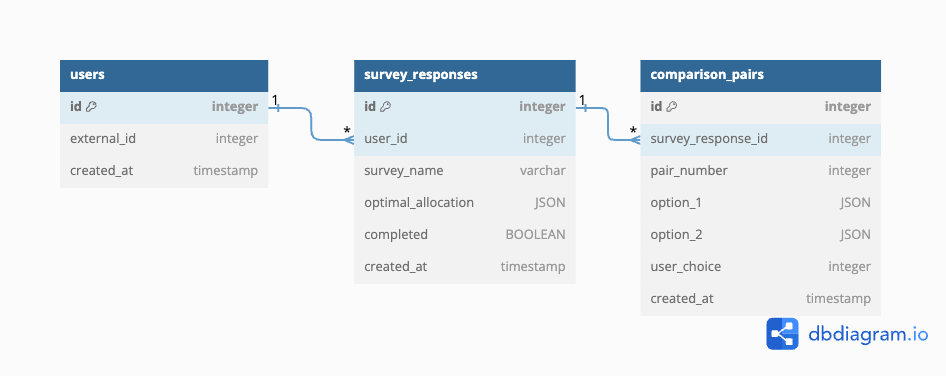
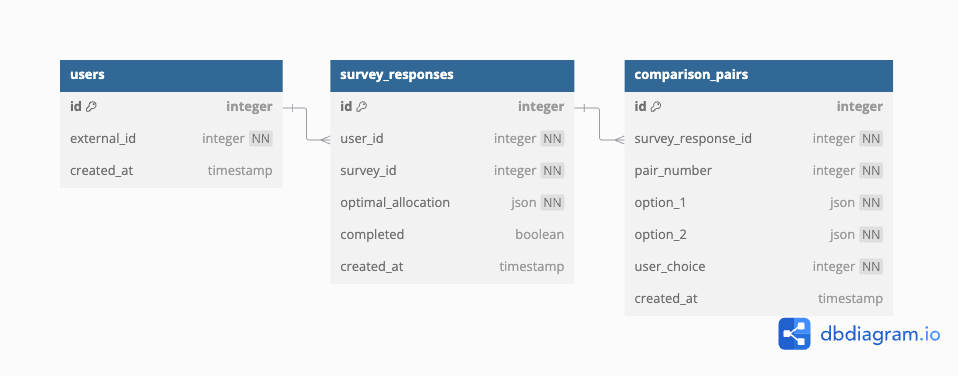
update survey_responses schema, replace survey_name with survey_id

diff --git a/tests/database/test_database_integration.py b/tests/database/test_database_integration.py
@@ -66,11 +66,11 @@ def test_create_survey_response(cleanup_db):
     """
     external_id = generate_unique_id()  # Generate a unique external ID for a new user
     user_id = create_user(external_id)  # Insert the user into the database
-    survey_name = "Test Survey"  # Sample survey name
+    survey_id = 1  # Sample survey ID
     optimal_allocation = [10, 20, 30]  # Sample optimal allocation
 
     # Insert a survey response for the user
-    survey_response_id = create_survey_response(user_id, survey_name, optimal_allocation)
+    survey_response_id = create_survey_response(user_id, survey_id, optimal_allocation)
     assert survey_response_id is not None  # Ensure that the survey response was inserted
 
     # Verify the inserted survey response by querying the database
@@ -78,7 +78,7 @@ def test_create_survey_response(cleanup_db):
     result = execute_query(query, (survey_response_id,))
     assert len(result) == 1  # Ensure one result is returned
     assert result[0]['user_id'] == user_id  # Check that the user ID matches
-    assert result[0]['survey_name'] == survey_name  # Check that the survey name matches
+    assert result[0]['survey_id'] == survey_id  # Check that the survey id matches
 
 def test_create_comparison_pair(cleanup_db):
     """
@@ -87,7 +87,7 @@ def test_create_comparison_pair(cleanup_db):
     """
     external_id = generate_unique_id()  # Generate a unique external ID for a new user
     user_id = create_user(external_id)  # Insert the user into the database
-    survey_response_id = create_survey_response(user_id, "Test Survey 2", [5, 15, 25])  # Create a new survey response
+    survey_response_id = create_survey_response(user_id, 2, [5, 15, 25])  # Create a new survey response
 
     pair_number = 1  # Define a pair number for comparison
     option_1 = [10, 20]  # First set of options
@@ -113,7 +113,7 @@ def test_mark_survey_as_completed(cleanup_db):
     """
     external_id = generate_unique_id()  # Generate a unique external ID for a new user
     user_id = create_user(external_id)  # Insert the user into the database
-    survey_response_id = create_survey_response(user_id, "Test Survey 3", [15, 25, 35])  # Create a new survey response
+    survey_response_id = create_survey_response(user_id, 3, [15, 25, 35])  # Create a new survey response
 
     # Mark the survey as completed
     result = mark_survey_as_completed(survey_response_id)

diff --git a/database/queries.py b/database/queries.py
@@ -23,25 +23,25 @@ def create_user(external_id: int) -> int:
     print(f'answer: {ans}')
     return ans
 
-def create_survey_response(user_id: int, survey_name: str, optimal_allocation: list) -> int:
+def create_survey_response(user_id: int, survey_id: int, optimal_allocation: list) -> int:
     """
     Inserts a new survey response into the survey_responses table.
 
     Args:
         user_id (int): The internal ID of the user submitting the survey.
-        survey_name (str): The name of the survey.
+        survey_id (int): The ID of the survey.
         optimal_allocation (list): The user optimal allocation in JSON format.
 
     Returns:
         int: The ID of the newly created survey response, or None if an error occurs.
     """
     query = """
-        INSERT INTO survey_responses (user_id, survey_name, optimal_allocation)
+        INSERT INTO survey_responses (user_id, survey_id, optimal_allocation)
         VALUES (%s, %s, %s)
     """
     optimal_allocation_json = json.dumps(optimal_allocation)
-    logger.debug(f"Executing query: {query} with user_id: {user_id}, survey_name: {survey_name}, optimal_allocation: {optimal_allocation_json}")
-    return execute_query(query, (user_id, survey_name, optimal_allocation_json))
+    logger.debug(f"Executing query: {query} with user_id: {user_id}, survey_id: {survey_id}, optimal_allocation: {optimal_allocation_json}")
+    return execute_query(query, (user_id, survey_id, optimal_allocation_json))
 
 def create_comparison_pair(survey_response_id: int, pair_number: int, option_1: list, option_2: list, user_choice: int) -> int:
     """

diff --git a/app/routes.py b/app/routes.py
@@ -6,6 +6,7 @@ from utils.generate_examples import generate_user_example
 main = Blueprint('main', __name__)
 
 SUBJECTS = ["ביטחון", "חינוך", "בריאות"]
+SURVEY_ID = 1
 
 logger = logging.getLogger(__name__)
 
@@ -96,7 +97,7 @@ def survey():
             db_user_id = create_user(int(participant_id))
             logger.info(f"User created in database with ID: {db_user_id}")
             
-            survey_response_id = create_survey_response(db_user_id, "Budget Survey", user_vector)
+            survey_response_id = create_survey_response(db_user_id, SURVEY_ID, user_vector)
             logger.info(f"Survey response created with ID: {survey_response_id}")
 
             for i in range(10):

diff --git a/TODO.md b/TODO.md
@@ -6,3 +6,5 @@
 * Dockerize the application.
 * Add API tests.
 * Add client tests.
+
+https://csariel.xyz?userid=123abc&surveyid=123abc
